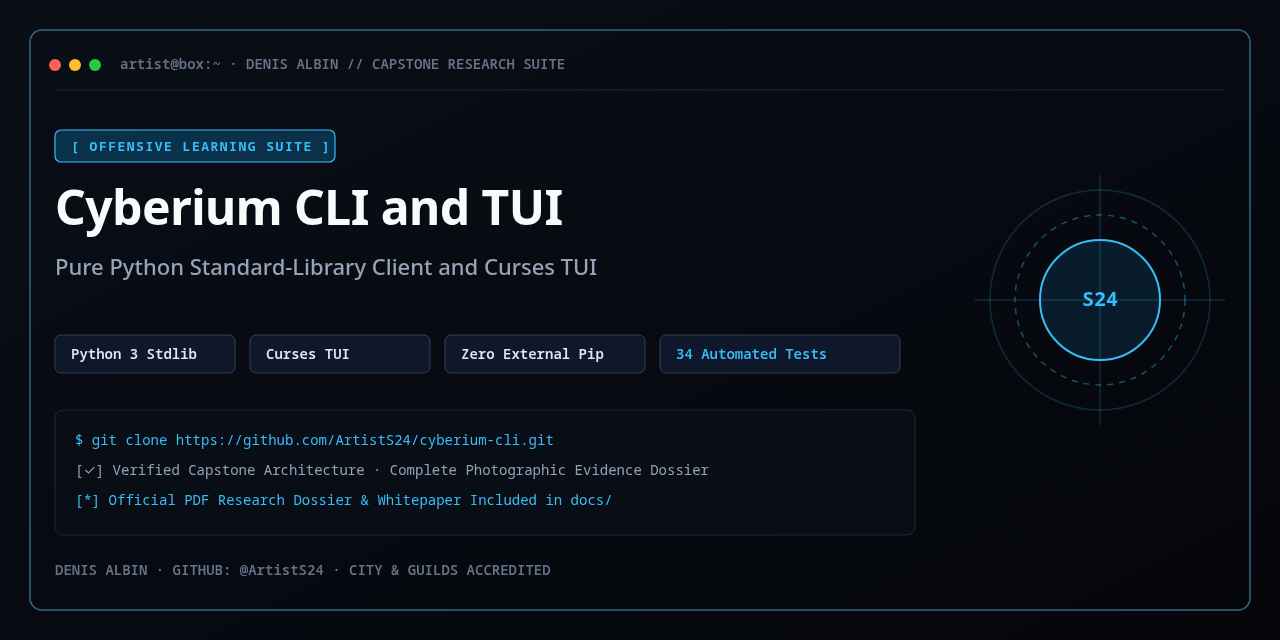
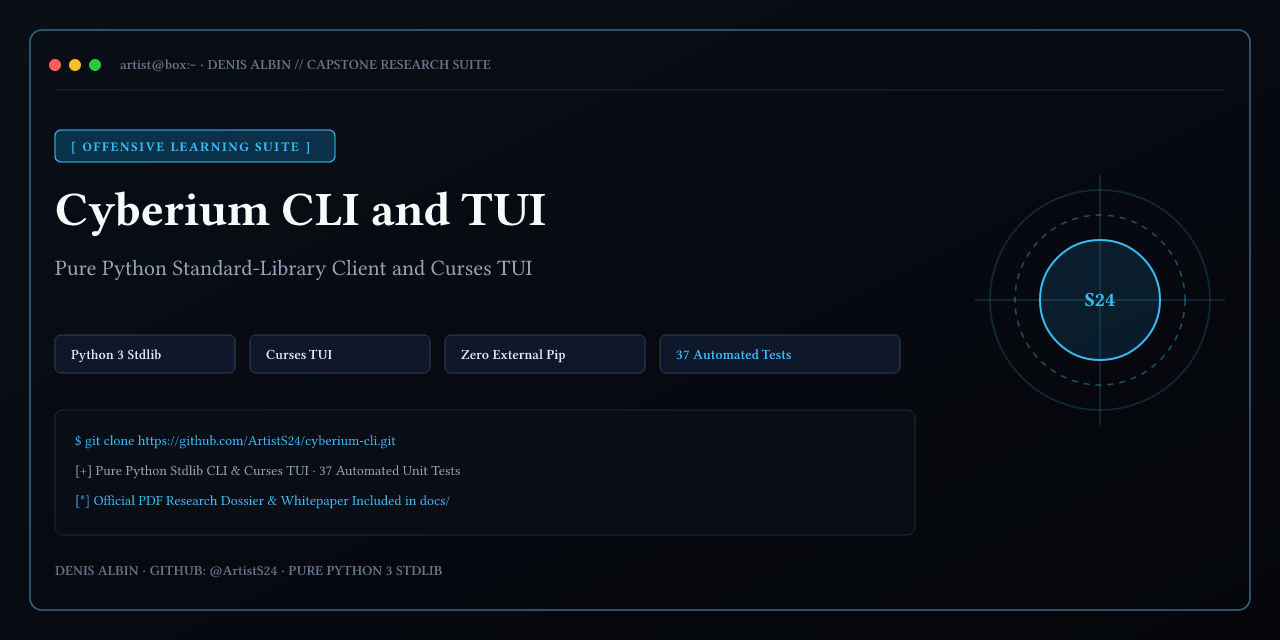
Update PoC captions, PDF metadata, and social preview

diff --git a/cyberium/cli.py b/cyberium/cli.py
@@ -856,8 +856,8 @@ def _run_cli():
   cyberium --test               # Run stdlib unit tests
 """
     )
-    parser.add_argument("--test", action="store_true", help="Run comprehensive standard library test suite (37 unit tests)")
-    parser.add_argument("-v", "--version", action="version", version="cyberium-cli v1.0.0 (Python stdlib · zero pip)")
+    parser.add_argument("--test", action="store_true", help="Run built-in CLI self-check tests")
+    parser.add_argument("-v", "--version", action="version", version="cyberium-cli v1.0.0")
 
     subparsers = parser.add_subparsers(dest="command")
 
@@ -866,7 +866,7 @@ def _run_cli():
 
     list_parser = subparsers.add_parser("list", aliases=["ls", "all", "questions"], help="List all questions in current module")
     list_parser.add_argument("track", nargs="?", default=None, help="Optional program/track ID or code to switch before listing")
-    subparsers.add_parser("test", help="Run standard library test harness (37 unit tests)")
+    subparsers.add_parser("test", help="Run built-in CLI self-check tests")
     
     # Modules
     subparsers.add_parser("modules", help="List all modules in current program")

diff --git a/README.md b/README.md
@@ -50,11 +50,11 @@ cyberium tui
 
 ```toml
 [instant_lab_submission]
-# Submit active lab objective flag directly from CLI without launching TUI
-command = "cyberium submit 'FLAG{memory_carved_vad_svchost}'"
+# Submit active lab answer directly from CLI (e.g. 30 open TCP ports on Metasploitable 2)
+command = "cyberium submit 30"
 
-# Submit specific question index across any enrolled track
-target  = "cyberium submit -i 14 'FLAG{auditd_rule_triggered}'"
+# Submit answer to a specific question index (e.g. Nmap --reason state on port 445)
+target  = "cyberium submit -i 1 syn-ack"
 ```
 
 <p align="center">
